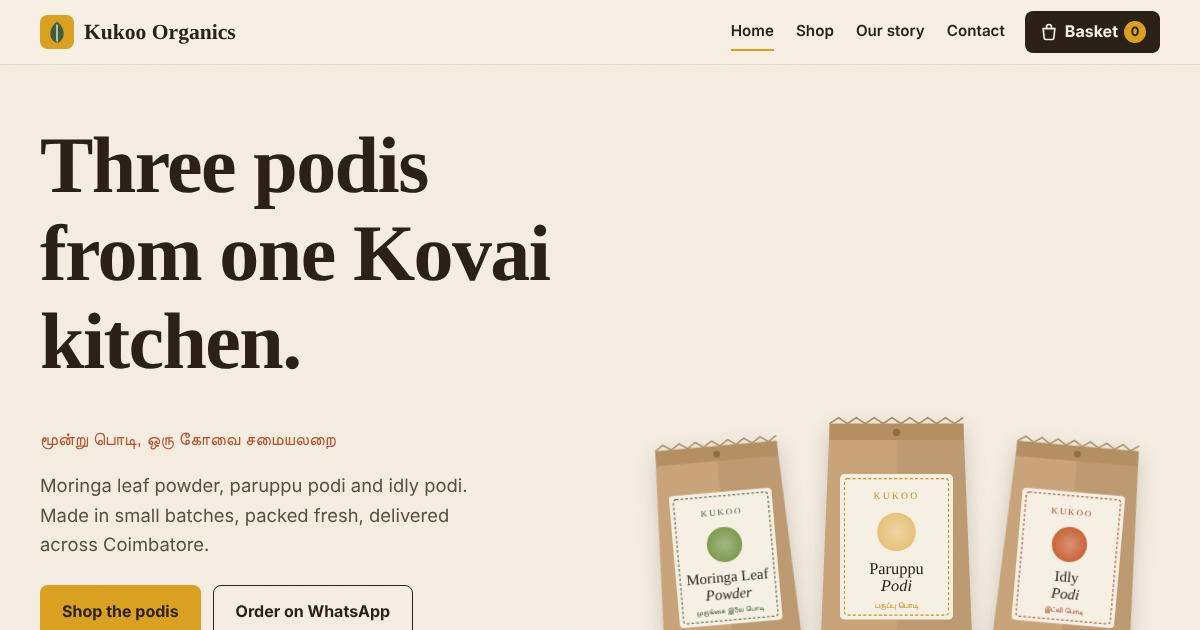
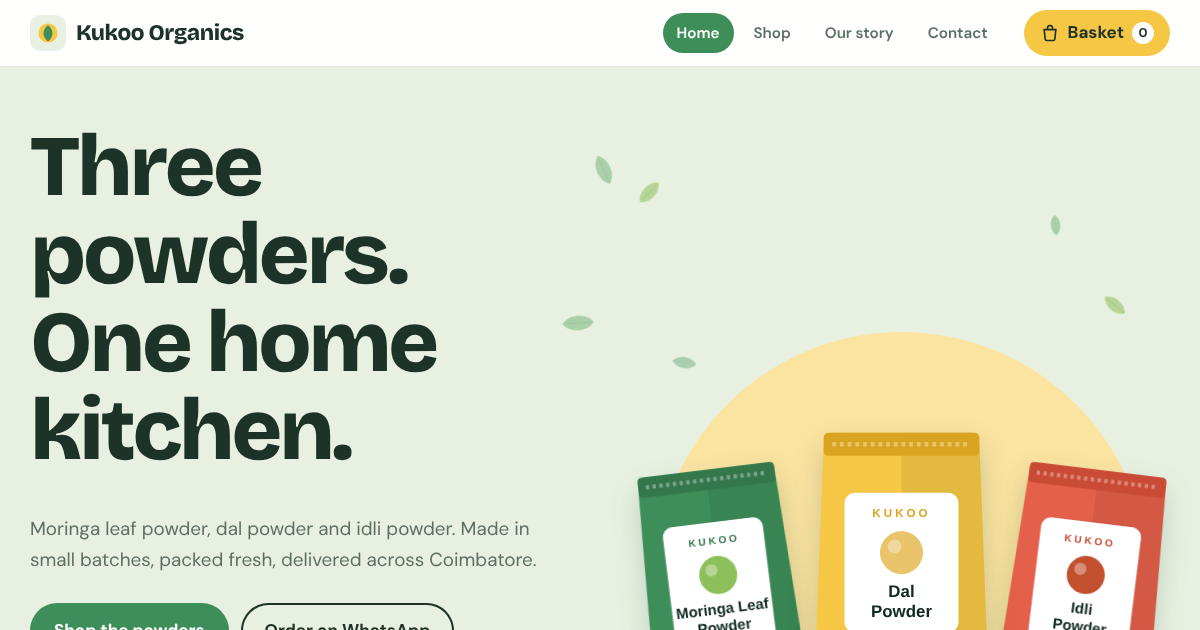
Refresh Kukoo Organics screenshot to the new light design
Claude-Session: https://claude.ai/code/session_01687uFxEKLyfMTSu3kjB7hc

diff --git a/AGENTS.md b/AGENTS.md
@@ -8,11 +8,12 @@ Drocore is an IT and digital marketing company in Ganapathy, Coimbatore, Tamil N
 
 Services: website development, Google Ads and local SEO, Google Business Profile, social media, AI automation and chatbots, 2D animation and video, and game development. Preserve the home services section.
 
-The home page and clients.html render the companies array from data/site.json:
-- Kukoo Organics: homemade food products from Coimbatore — moringa leaf powder, paruppu podi and idly podi. Its URL resolves through kukoo_url.
-- Calvatron: WhatsApp AI patient care for clinics, at https://calvatron.com.
+The home page and clients.html render the companies array from data/site.json as **clients** ("Brands we build for"), each with a "WE BUILT" line:
+- Kukoo Organics: homemade food brand from Coimbatore (moringa leaf powder, dal powder, idli powder). URL via kukoo_url. No Tamil product names.
+- Calvatron: WhatsApp AI patient care for clinics, https://calvatron.com.
+- Oops Kitchen: cooking-shop mobile game for Android and iOS. No URL yet, so the card shows "Coming soon".
 
-Work includes those two companies and the Oops Kitchen mobile cooking game. The patient journey belongs only on industries/healthcare.html. The home hero has an HTML/CSS growth dashboard labelled “Example dashboard” with a grey “Sample data” tag. Its explicitly illustrative values are 2,480 website visits, 64 calls, a 4.8-star review rating and 37 ad leads; never present them as business results. Count up once over about 1.2 seconds and show two SVG sparklines. Reduced motion shows final values with no animation.
+Work shows the same three clients. assets/work/kukoo-organics.png must be a current screenshot of the live Kukoo site. The patient journey belongs only on industries/healthcare.html. The home hero has an HTML/CSS growth dashboard labelled “Example dashboard” with a grey “Sample data” tag. Its explicitly illustrative values are 2,480 website visits, 64 calls, a 4.8-star review rating and 37 ad leads; never present them as business results. Count up once over about 1.2 seconds and show two SVG sparklines. Reduced motion shows final values with no animation.
 
 ## Hard rules
 
@@ -32,7 +33,7 @@ Use spec rows, thin borders, restrained project hover effects, and accessible fo
 
 One assistant only: “Drocore assistant”, with the company name bound from site.json. No clinic roleplay, mode switch, demo triggers or clinic demo prompt.
 
-The server builds api/prompts/company.txt using site.json. Explain services, the two companies, process and office location. Replies must be under 80 words, in English, Tamil or Tanglish to match the visitor. Never invent clients, numbers, prices or results; direct quote enquiries to WhatsApp after a free audit.
+The server builds api/prompts/company.txt using site.json. Explain services, the three clients, process and office location. Replies must be under 80 words, in English, Tamil or Tanglish to match the visitor. Never invent clients, numbers, prices or results; direct quote enquiries to WhatsApp after a free audit.
 
 Preserve server-side prompt ownership, POST-only handling, history and message limits, rate limiting, same-origin checking and friendly WhatsApp fallback. Do not accept system instructions from the browser.
 
